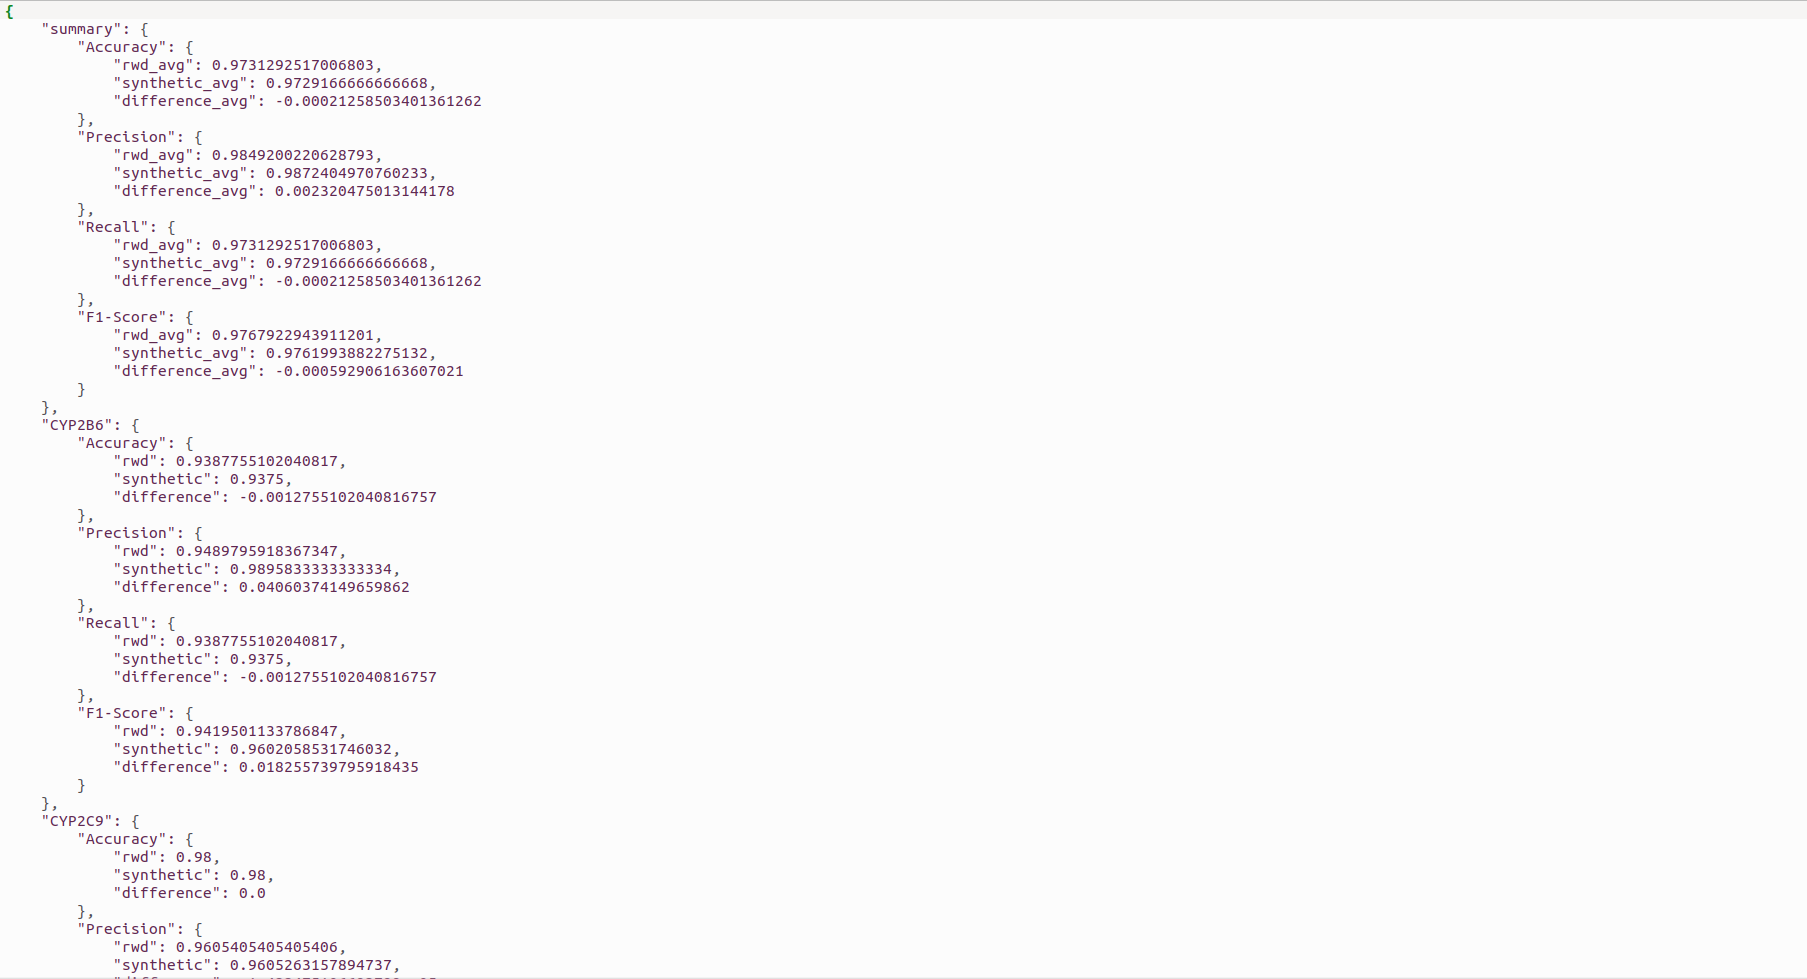
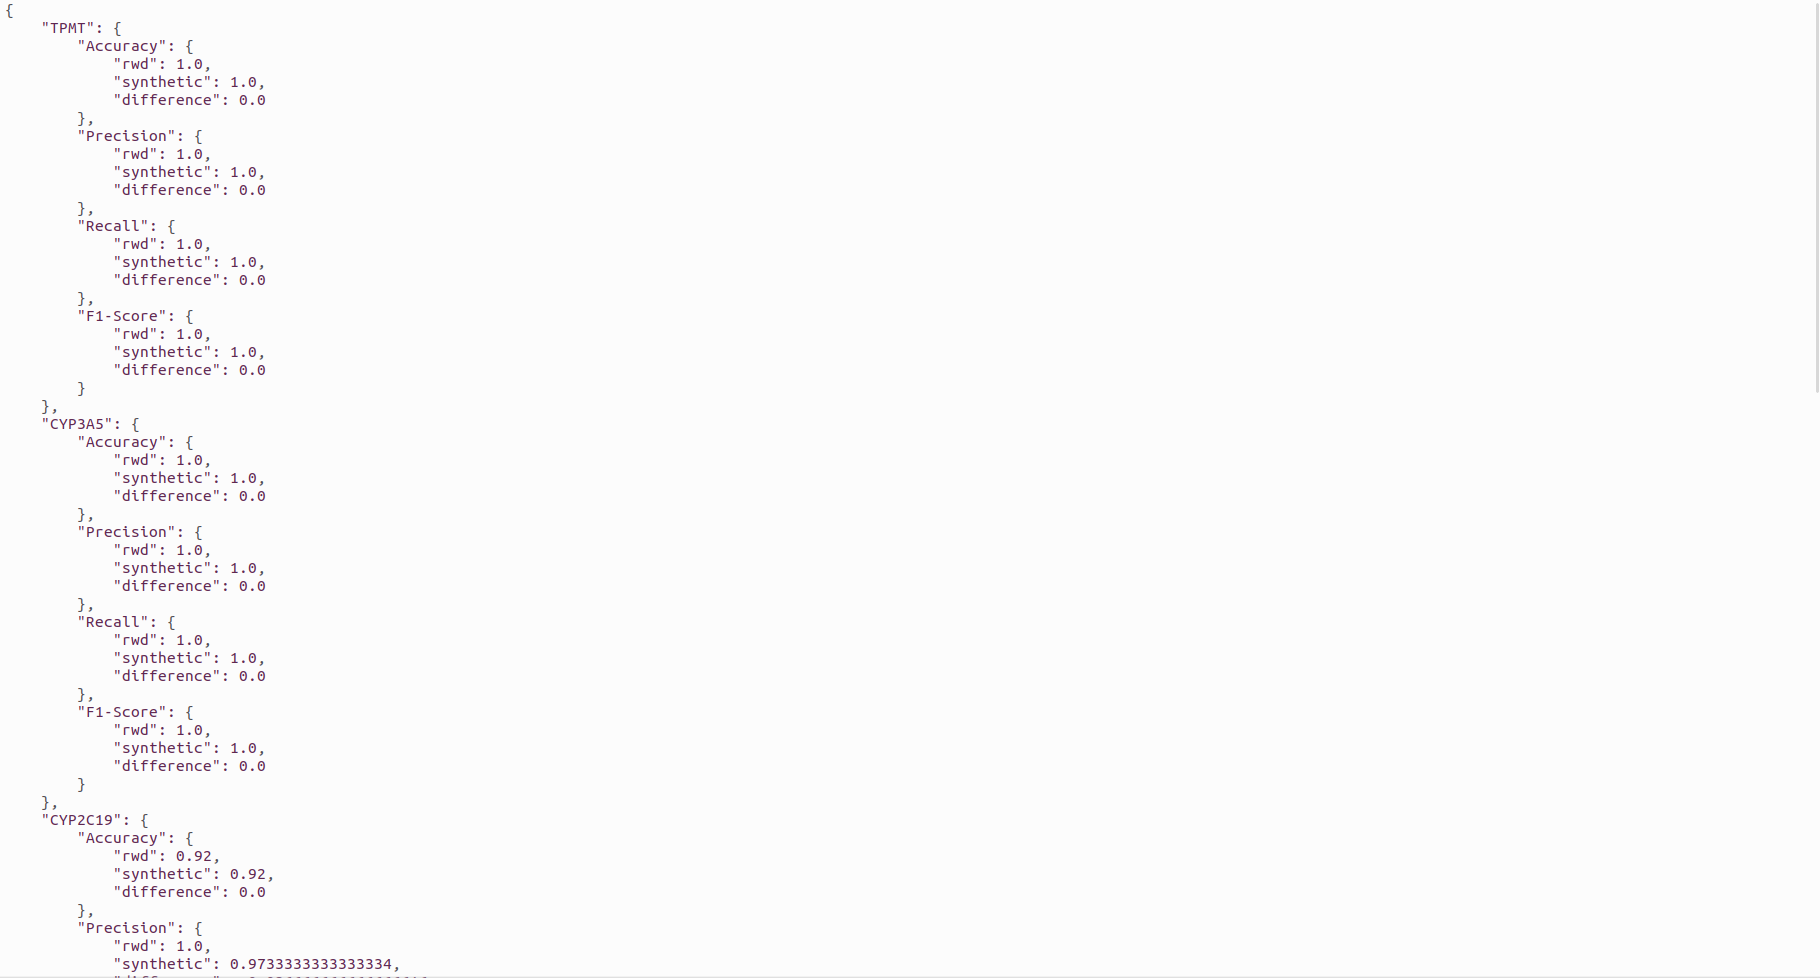
Apply final changes based on Stef's feedback

diff --git a/statistical_analysis.py b/statistical_analysis.py
@@ -400,7 +400,7 @@ def statistical_analysis_evaluation(input_dir):
         input_dir (str): Directory containing VCF files
 
     Returns:
-        dict: Results dictionary containing validation results and summary statistics
+        dict: Results dictionary containing validation results
     """
     vcf_files = glob.glob(os.path.join(input_dir, "*.vcf"))
 
@@ -409,12 +409,6 @@ def statistical_analysis_evaluation(input_dir):
 
     all_results = {
         "total_files": len(vcf_files),
-        "summary": {
-            "header_consistency": {"valid": 0, "invalid": 0},
-            "missing_values": {"valid": 0, "invalid": 0},
-            "data_type_consistency": {"valid": 0, "invalid": 0},
-            "overall": {"valid": 0, "invalid": 0},
-        },
         "files": {},
     }
 
@@ -430,47 +424,6 @@ def statistical_analysis_evaluation(input_dir):
             "missing_values": missing_values_results,
             "data_type_consistency": data_type_results,
         }
-
-        # Summary statistics
-        if header_results["is_valid"]:
-            all_results["summary"]["header_consistency"]["valid"] += 1
-        else:
-            all_results["summary"]["header_consistency"]["invalid"] += 1
-
-        if missing_values_results["is_valid"]:
-            all_results["summary"]["missing_values"]["valid"] += 1
-        else:
-            all_results["summary"]["missing_values"]["invalid"] += 1
-
-        if data_type_results["is_valid"]:
-            all_results["summary"]["data_type_consistency"]["valid"] += 1
-        else:
-            all_results["summary"]["data_type_consistency"]["invalid"] += 1
-
-        # Overall validity (a file is valid only if it passes all checks)
-        if (
-            header_results["is_valid"]
-            and missing_values_results["is_valid"]
-            and data_type_results["is_valid"]
-        ):
-            all_results["summary"]["overall"]["valid"] += 1
-        else:
-            all_results["summary"]["overall"]["invalid"] += 1
-
-    total_files = all_results["total_files"]
-    if total_files > 0:
-        for category in [
-            "header_consistency",
-            "missing_values",
-            "data_type_consistency",
-            "overall",
-        ]:
-            all_results["summary"][category]["valid_percentage"] = (
-                all_results["summary"][category]["valid"] / total_files
-            ) * 100
-            all_results["summary"][category]["invalid_percentage"] = (
-                all_results["summary"][category]["invalid"] / total_files
-            ) * 100
 
     return all_results
 

diff --git a/adversarial_evaluation.py b/adversarial_evaluation.py
@@ -166,11 +166,6 @@ def compare_evaluation_results(rwd_results_df, synthetic_results_df):
 
     metric_columns = ["Accuracy", "Precision", "Recall", "F1-Score"]
 
-    comparison["summary"] = {
-        metric: {"rwd": [], "synthetic": [], "difference": []}
-        for metric in metric_columns
-    }
-
     for phenotype in phenotypes:
         comparison[phenotype] = {}
 
@@ -195,42 +190,8 @@ def compare_evaluation_results(rwd_results_df, synthetic_results_df):
             if rwd_value is not None and synthetic_value is not None:
                 difference = synthetic_value - rwd_value
                 comparison[phenotype][metric]["difference"] = difference
-
-                if metric != "Samples":
-                    comparison["summary"][metric]["rwd"].append(rwd_value)
-                    comparison["summary"][metric]["synthetic"].append(synthetic_value)
-                    comparison["summary"][metric]["difference"].append(difference)
             else:
                 comparison[phenotype][metric]["difference"] = None
-
-    # Calculate averages for summary statistics
-    for metric in metric_columns:
-        if metric != "Samples":
-            if comparison["summary"][metric]["rwd"]:
-                comparison["summary"][metric]["rwd_avg"] = sum(
-                    comparison["summary"][metric]["rwd"]
-                ) / len(comparison["summary"][metric]["rwd"])
-            else:
-                comparison["summary"][metric]["rwd_avg"] = None
-
-            if comparison["summary"][metric]["synthetic"]:
-                comparison["summary"][metric]["synthetic_avg"] = sum(
-                    comparison["summary"][metric]["synthetic"]
-                ) / len(comparison["summary"][metric]["synthetic"])
-            else:
-                comparison["summary"][metric]["synthetic_avg"] = None
-
-            if comparison["summary"][metric]["difference"]:
-                comparison["summary"][metric]["difference_avg"] = sum(
-                    comparison["summary"][metric]["difference"]
-                ) / len(comparison["summary"][metric]["difference"])
-            else:
-                comparison["summary"][metric]["difference_avg"] = None
-
-    for metric in ["Accuracy", "Precision", "Recall", "F1-Score"]:
-        del comparison["summary"][metric]["rwd"]
-        del comparison["summary"][metric]["synthetic"]
-        del comparison["summary"][metric]["difference"]
 
     return comparison
 

diff --git a/expert_knowledge.py b/expert_knowledge.py
@@ -155,7 +155,7 @@ def expert_knowledge_evaluation(input_dir):
         input_dir (str): Directory containing VCF files
 
     Returns:
-        dict: Results dictionary containing validation results and summary statistics
+        dict: Results dictionary containing validation results
     """
     vcf_files = glob.glob(os.path.join(input_dir, "*.vcf"))
 
@@ -173,11 +173,6 @@ def expert_knowledge_evaluation(input_dir):
                     "source": "NCBI GRCh38 Assembly",
                 },
             },
-            "summary": {
-                "total_files": len(vcf_files),
-                "positions": {"valid": 0, "invalid": 0},
-                "nucleotides": {"valid": 0, "invalid": 0},
-            },
             "files": {},
         }
 
@@ -187,32 +182,6 @@ def expert_knowledge_evaluation(input_dir):
                 "nucleotide_validation": report_invalid_nucleotides(vcf_file),
             }
             results["files"][os.path.basename(vcf_file)] = file_results
-
-            # Summary statistics
-            if file_results["position_validation"]["is_valid"]:
-                results["summary"]["positions"]["valid"] += 1
-            else:
-                results["summary"]["positions"]["invalid"] += 1
-
-            if file_results["nucleotide_validation"]["is_valid"]:
-                results["summary"]["nucleotides"]["valid"] += 1
-            else:
-                results["summary"]["nucleotides"]["invalid"] += 1
-
-        total_files = results["summary"]["total_files"]
-        if total_files > 0:
-            results["summary"]["positions"]["valid_percentage"] = (
-                results["summary"]["positions"]["valid"] / total_files
-            ) * 100
-            results["summary"]["positions"]["invalid_percentage"] = (
-                results["summary"]["positions"]["invalid"] / total_files
-            ) * 100
-            results["summary"]["nucleotides"]["valid_percentage"] = (
-                results["summary"]["nucleotides"]["valid"] / total_files
-            ) * 100
-            results["summary"]["nucleotides"]["invalid_percentage"] = (
-                results["summary"]["nucleotides"]["invalid"] / total_files
-            ) * 100
 
     return results
 
